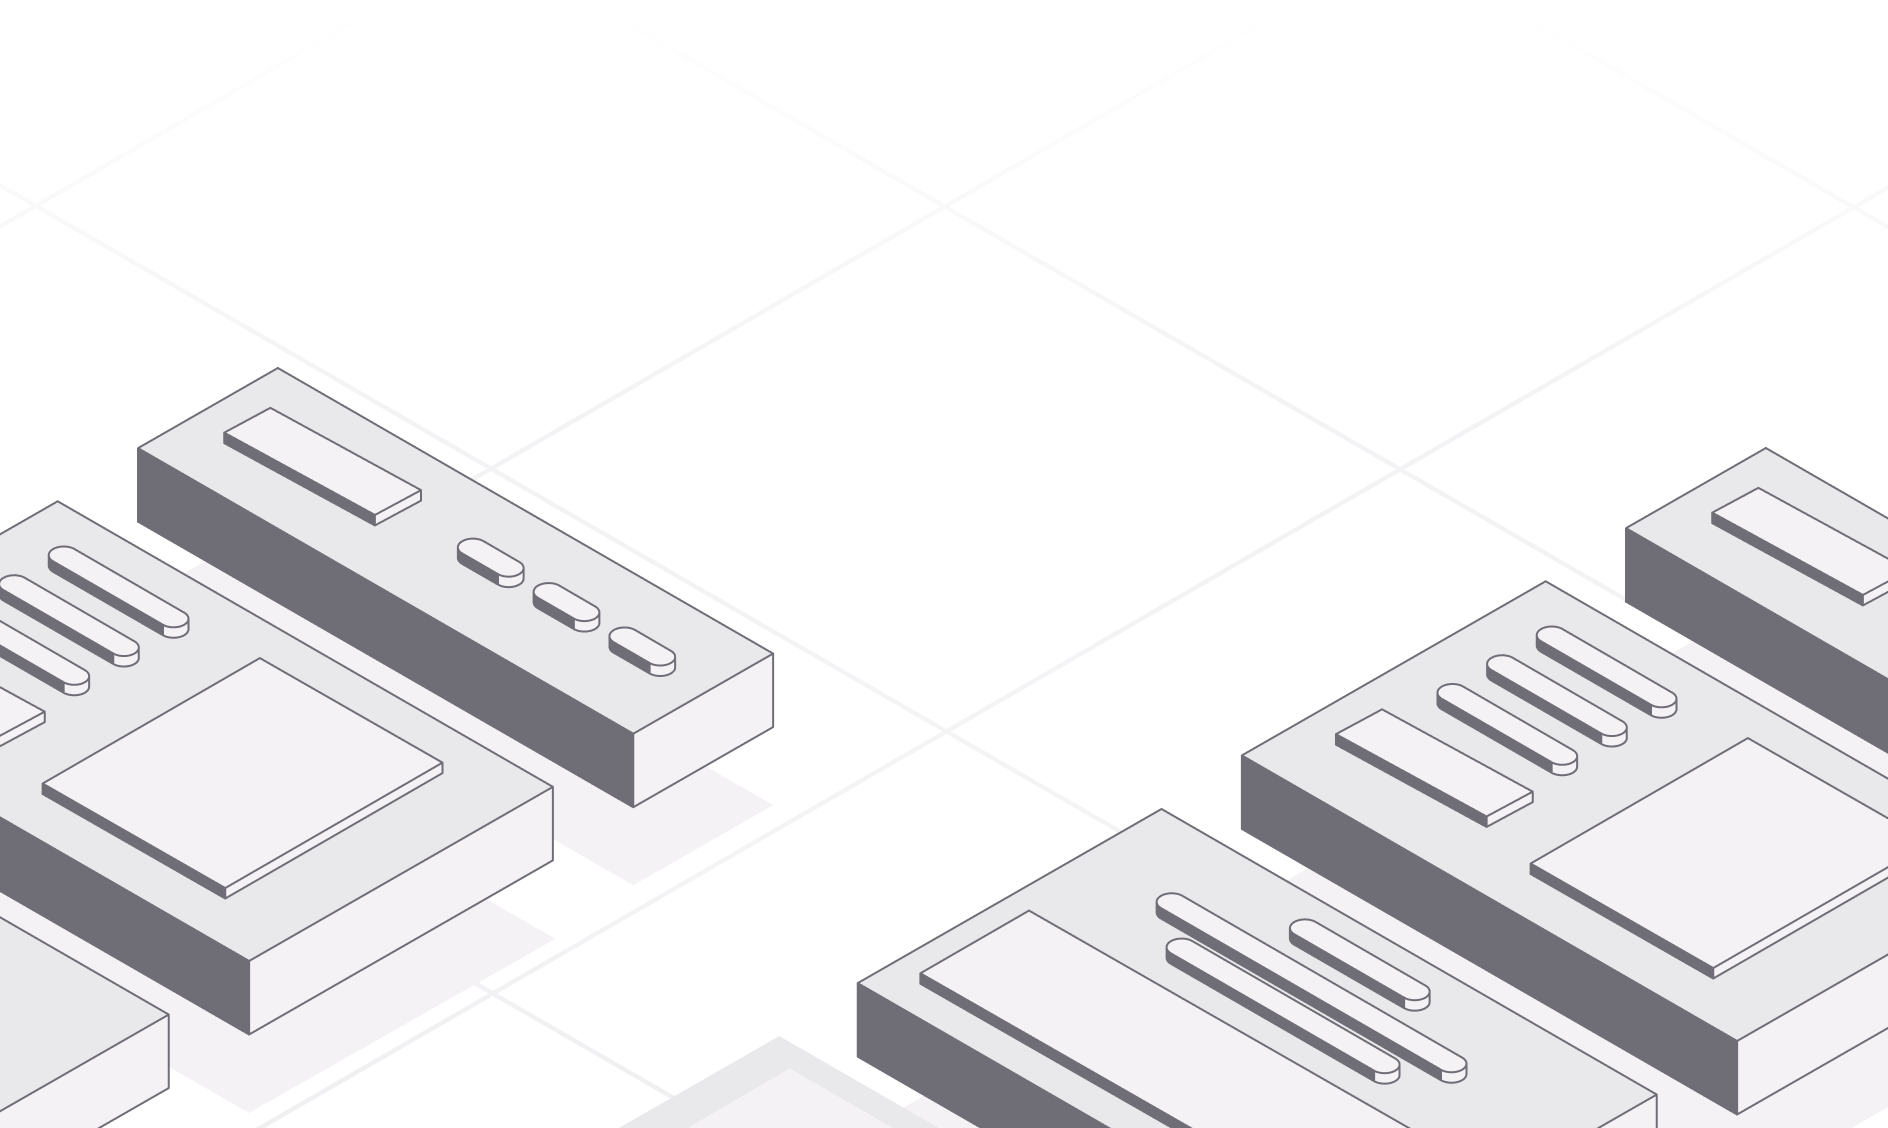
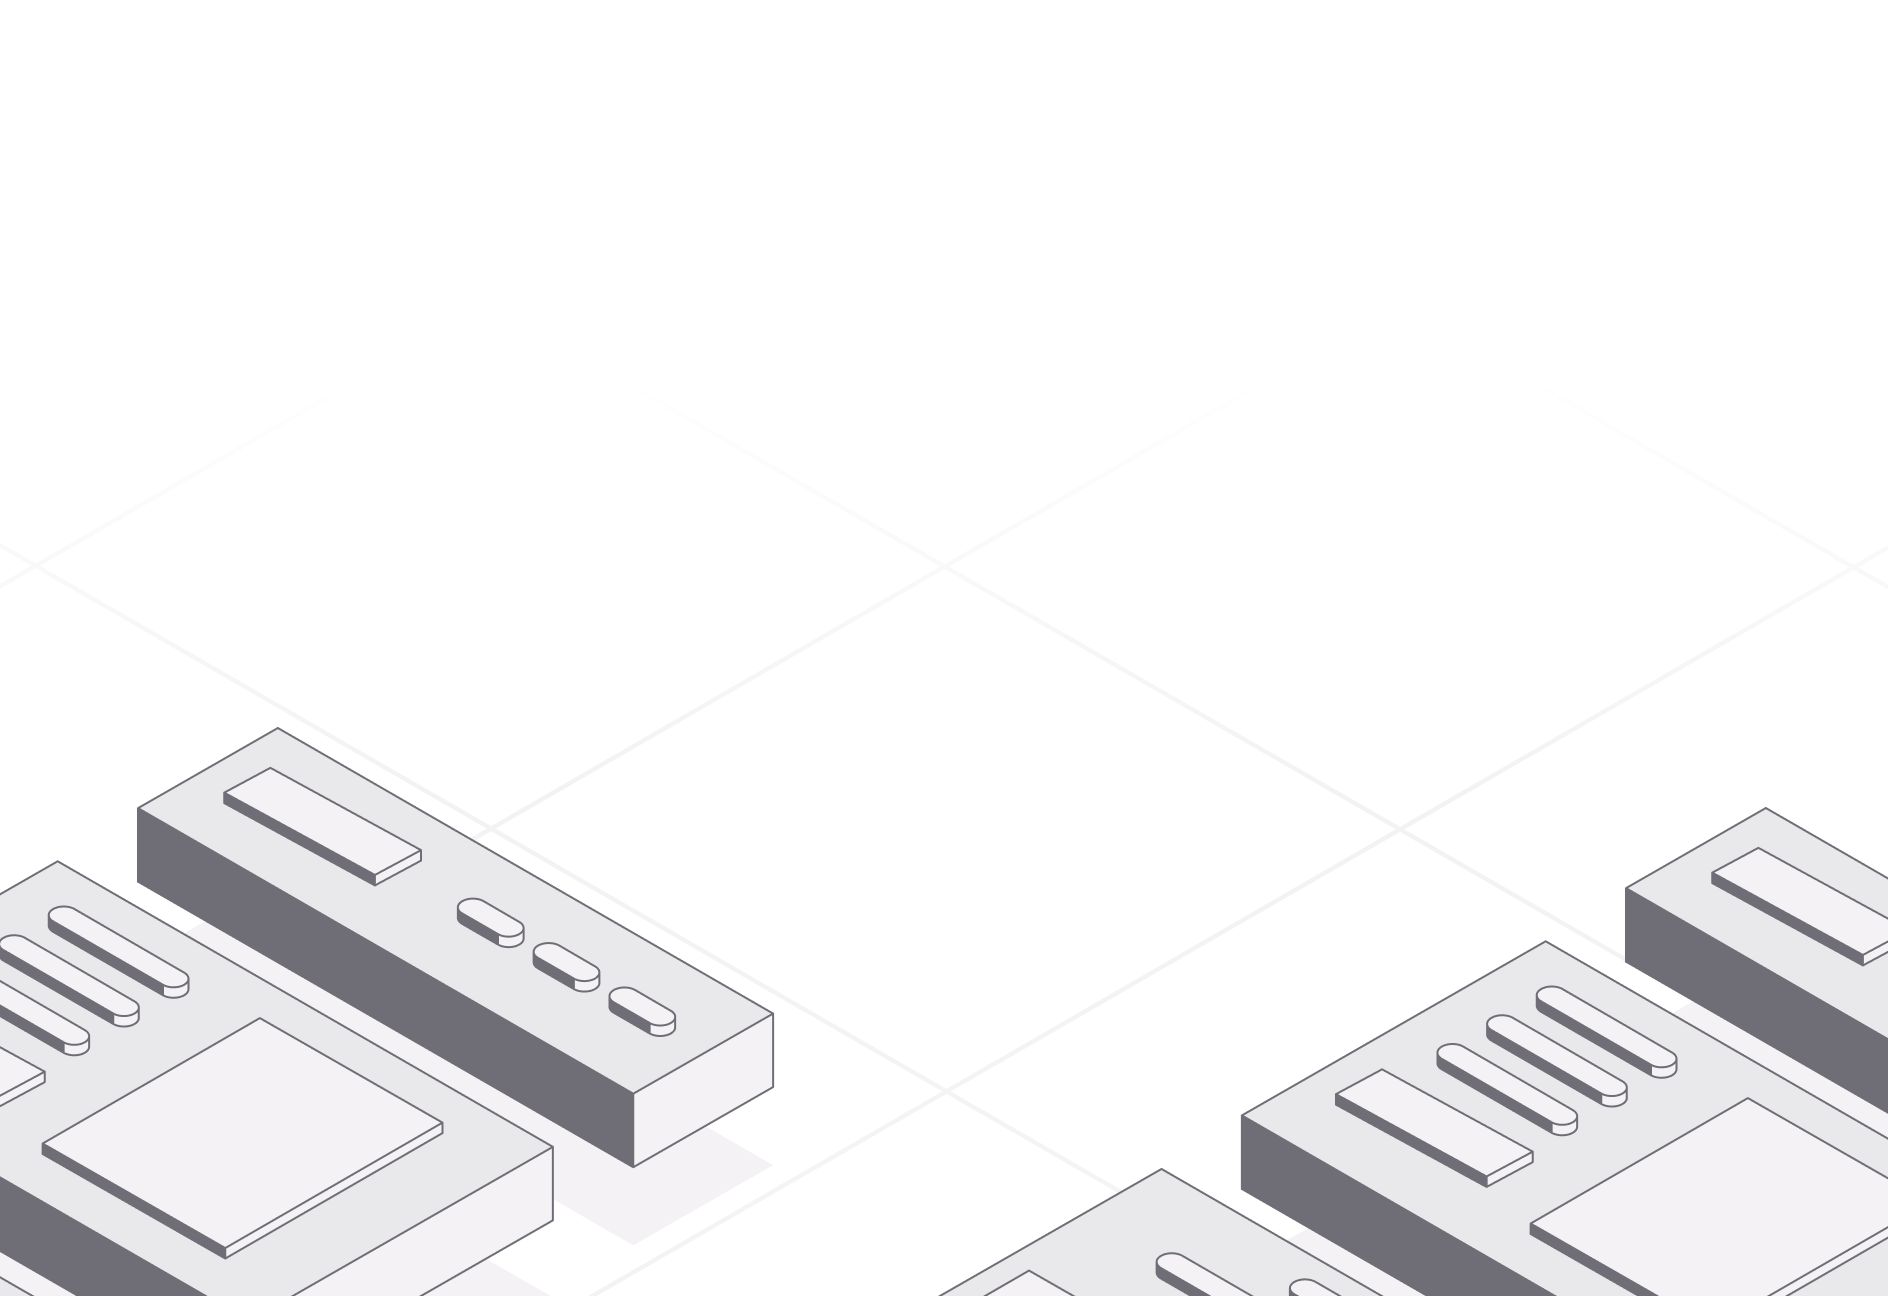
feat(Slice Templates): Update Page Type blank slate and Add dropdown

diff --git a/packages/slice-machine/src/features/customTypes/customTypesBuilder/SliceZoneBlankSlate.tsx b/packages/slice-machine/src/features/customTypes/customTypesBuilder/SliceZoneBlankSlate.tsx
@@ -1,14 +1,5 @@
 import { FC } from "react";
-import {
-  Box,
-  Button,
-  DropdownMenu,
-  DropdownMenuContent,
-  DropdownMenuItem,
-  DropdownMenuTrigger,
-  Icon,
-} from "@prismicio/editor-ui";
-import { useRouter } from "next/router";
+import { ActionList, ActionListItem, Box } from "@prismicio/editor-ui";
 
 import {
   BlankSlate,
@@ -17,6 +8,7 @@ import {
   BlankSlateDescription,
   BlankSlateTitle,
 } from "@src/components/BlankSlate";
+import { LightningIcon3D } from "@src/icons/LightningIcon3D";
 
 export type SliceZoneBlankSlateProps = {
   onAddNewSlice: () => void;
@@ -33,12 +25,13 @@ export const SliceZoneBlankSlate: FC<SliceZoneBlankSlateProps> = ({
   projectHasAvailableSlices,
   isSlicesTemplatesSupported,
 }) => {
-  const { query } = useRouter();
-
   return (
     <Box justifyContent="center" height="100%">
       <BlankSlate backgroundImage="/blank-slate-slice-zone.png">
         <BlankSlateContent>
+          <Box justifyContent="center" padding={{ bottom: 16 }}>
+            <LightningIcon3D />
+          </Box>
           <BlankSlateTitle>Add slices</BlankSlateTitle>
           <BlankSlateDescription>
             Slices are website sections that you can reuse on different pages
@@ -46,45 +39,33 @@ export const SliceZoneBlankSlate: FC<SliceZoneBlankSlateProps> = ({
             code.
           </BlankSlateDescription>
           <BlankSlateActions>
-            <DropdownMenu>
-              <DropdownMenuTrigger data-testid="add-slice-dropdown">
-                <Button
-                  variant={
-                    query.newPageType === "true" ? "primary" : "secondary"
-                  }
-                  startIcon="add"
+            <ActionList>
+              <ActionListItem
+                startIcon="add"
+                onClick={onCreateNewSlice}
+                description="Okay, you're not kidding"
+              >
+                Create a new one
+              </ActionListItem>
+              {isSlicesTemplatesSupported ? (
+                <ActionListItem
+                  startIcon="contentCopy"
+                  onClick={openSlicesTemplatesModal}
+                  description="Great, if you struggle"
                 >
-                  Add
-                </Button>
-              </DropdownMenuTrigger>
-
-              <DropdownMenuContent align="start">
-                <DropdownMenuItem
-                  startIcon={<Icon name="add" />}
-                  onSelect={onCreateNewSlice}
+                  Add from templates
+                </ActionListItem>
+              ) : undefined}
+              {projectHasAvailableSlices ? (
+                <ActionListItem
+                  startIcon="folder"
+                  onClick={onAddNewSlice}
+                  description="Why reinvent the wheel?"
                 >
-                  Blank slice
-                </DropdownMenuItem>
-
-                {isSlicesTemplatesSupported ? (
-                  <DropdownMenuItem
-                    onSelect={openSlicesTemplatesModal}
-                    startIcon={<Icon name="contentCopy" />}
-                  >
-                    From templates
-                  </DropdownMenuItem>
-                ) : undefined}
-
-                {projectHasAvailableSlices ? (
-                  <DropdownMenuItem
-                    onSelect={onAddNewSlice}
-                    startIcon={<Icon name="folder" />}
-                  >
-                    From library
-                  </DropdownMenuItem>
-                ) : undefined}
-              </DropdownMenuContent>
-            </DropdownMenu>
+                  Add from this project
+                </ActionListItem>
+              ) : undefined}
+            </ActionList>
           </BlankSlateActions>
         </BlankSlateContent>
       </BlankSlate>

diff --git a/packages/slice-machine/lib/builders/CustomTypeBuilder/SliceZone/index.tsx b/packages/slice-machine/lib/builders/CustomTypeBuilder/SliceZone/index.tsx
@@ -212,8 +212,9 @@ const SliceZone: React.FC<SliceZoneProps> = ({
 
                   <DropdownMenuContent align="end">
                     <DropdownMenuItem
-                      startIcon={<Icon name="add" />}
+                      startIcon={<Icon name="add" size="large" />}
                       onSelect={onCreateNewSlice}
+                      description="Okay, you're not kidding"
                     >
                       Blank slice
                     </DropdownMenuItem>
@@ -221,7 +222,8 @@ const SliceZone: React.FC<SliceZoneProps> = ({
                     {availableSlicesTemplates.length > 0 ? (
                       <DropdownMenuItem
                         onSelect={openSlicesTemplatesModal}
-                        startIcon={<Icon name="contentCopy" />}
+                        startIcon={<Icon name="contentCopy" size="large" />}
+                        description="Great, if you struggle"
                       >
                         From templates
                       </DropdownMenuItem>
@@ -230,9 +232,10 @@ const SliceZone: React.FC<SliceZoneProps> = ({
                     {availableSlicesToAdd.length > 0 ? (
                       <DropdownMenuItem
                         onSelect={onAddNewSlice}
-                        startIcon={<Icon name="folder" />}
+                        startIcon={<Icon name="folder" size="large" />}
+                        description="Why reinvent the wheel?"
                       >
-                        From library
+                        From project
                       </DropdownMenuItem>
                     ) : undefined}
                   </DropdownMenuContent>

diff --git a/packages/slice-machine/src/icons/LightningIcon3D.tsx b/packages/slice-machine/src/icons/LightningIcon3D.tsx
@@ -1,0 +1,49 @@
+import type { FC, SVGProps } from "react";
+
+export const LightningIcon3D: FC<SVGProps<SVGSVGElement>> = (props) => (
+  <svg
+    width="65"
+    height="66"
+    viewBox="0 0 65 66"
+    fill="none"
+    xmlns="http://www.w3.org/2000/svg"
+    {...props}
+  >
+    <path
+      d="M15.6919 40.6473L46.8725 8.13344L32.7614 32.5783L48.3885 32.4863L17.2078 65.0001L31.0542 40.4849L15.6919 40.6473Z"
+      fill="#17151F"
+      stroke="#17151F"
+      strokeLinejoin="round"
+    />
+    <path
+      d="M26.9347 33.3512L11.5723 33.5137L15.6904 40.6464L31.0528 40.484L26.9347 33.3512Z"
+      fill="#17151F"
+      stroke="#17151F"
+      strokeLinejoin="round"
+    />
+    <path
+      d="M48.3886 32.4856L17.208 64.9995L13.0898 57.8667L44.2705 25.3528L48.3886 32.4856Z"
+      fill="#E9E8EA"
+    />
+    <path
+      d="M46.8727 8.13278L32.7616 32.5776L28.6435 25.4448L42.7546 1L46.8727 8.13278Z"
+      fill="#E9E8EA"
+    />
+    <path
+      d="M48.3886 32.4856L17.208 64.9995L13.0898 57.8667L44.2705 25.3528L48.3886 32.4856Z"
+      stroke="#17151F"
+      strokeLinejoin="round"
+    />
+    <path
+      d="M46.8727 8.13278L32.7616 32.5776L28.6435 25.4448L42.7546 1L46.8727 8.13278Z"
+      stroke="#17151F"
+      strokeLinejoin="round"
+    />
+    <path
+      d="M11.5742 33.5139L42.7549 1L28.6438 25.4448L44.2708 25.3528L13.0902 57.8667L26.9366 33.3514L11.5742 33.5139Z"
+      fill="#E9E8EA"
+      stroke="#17151F"
+      strokeLinejoin="round"
+    />
+  </svg>
+);

diff --git a/packages/slice-machine/src/components/BlankSlate/BlankSlate.css.ts b/packages/slice-machine/src/components/BlankSlate/BlankSlate.css.ts
@@ -14,14 +14,13 @@ export const root = style([
     animationDuration: 300,
     animationName: "fadeIn",
     animationTimingFunction: "easeInOut",
-    backgroundColor: colors.grey1,
     borderColor: colors.grey6,
     borderRadius: 6,
     borderStyle: "solid",
     borderWidth: 1,
     overflow: "hidden",
   }),
-  { maxWidth: 498, minHeight: 400 },
+  { maxWidth: 498, minHeight: 400, backgroundColor: vars.color.greyLight1 },
 ]);
 
 export const withBackground = style([
@@ -31,6 +30,7 @@ export const withBackground = style([
   }),
   {
     backgroundSize: "cover",
+    backgroundColor: "transparent",
     borderRadius: vars.borderRadius[0],
     borderStyle: vars.borderStyle.none,
     height: "100%",

diff --git a/packages/slice-machine/test/pages/custom-types.test.tsx b/packages/slice-machine/test/pages/custom-types.test.tsx
@@ -300,8 +300,7 @@ describe("Custom Type Builder", () => {
     });
 
     const user = userEvent.setup();
-    await user.click(screen.getByTestId("add-slice-dropdown"));
-    await user.click(screen.getByText("From library"));
+    await user.click(screen.getByText("Add from this project"));
 
     const slicesToSelect = screen.getAllByTestId("slicezone-modal-item");
 
